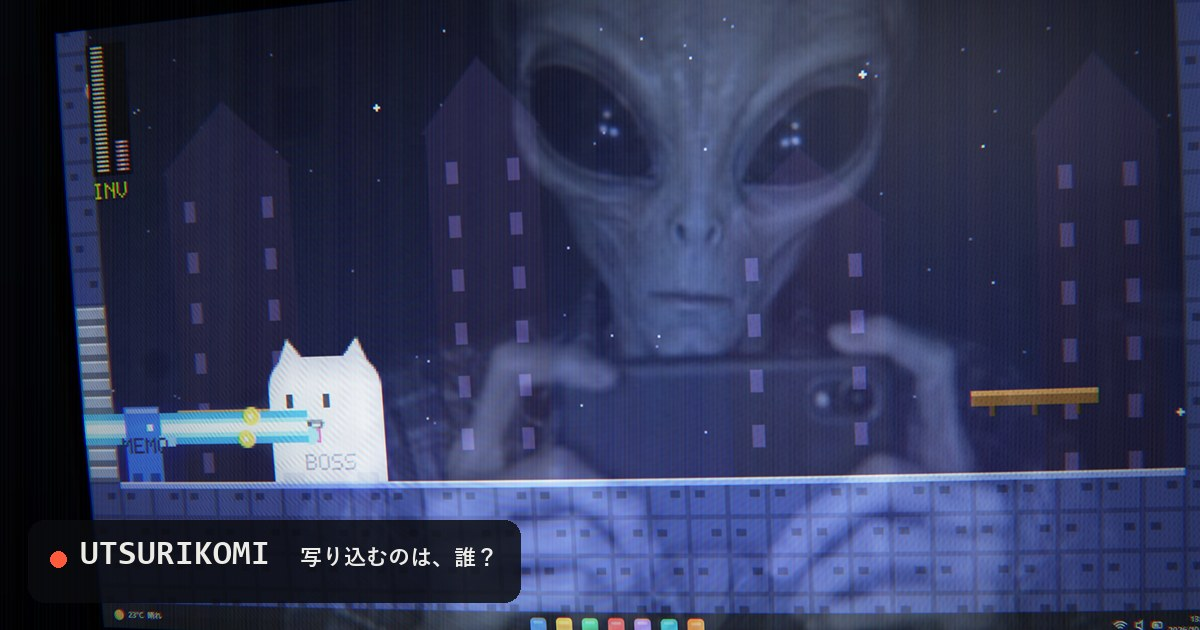
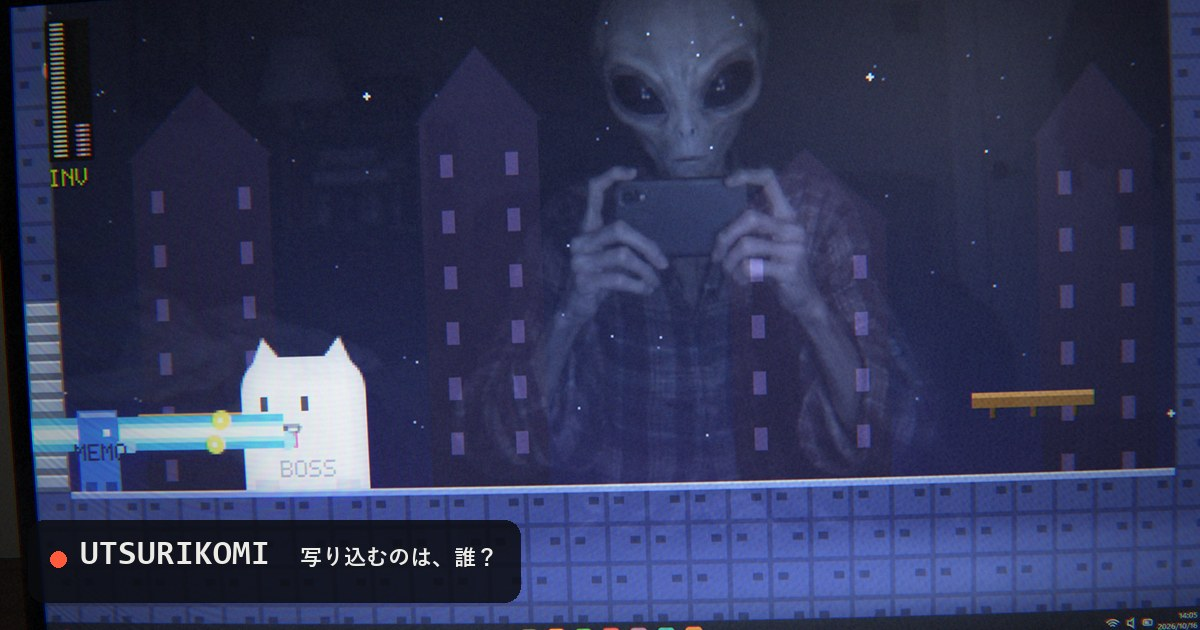
OGP 画像を今の見た目で撮り直し、README の仕組みを更新

diff --git a/README.md b/README.md
@@ -29,8 +29,10 @@ WebGL2 の2パスで描いています。
 
 1. 入力画像を PC 画面として描き、カメラの位置から射影（ホモグラフィ）して斜めから撮った形にする
 2. 画面の RGB 画素の格子をカメラの画素で標本化して、モアレを自然に出す
-3. 「カメラから画面へ下ろした垂線の足」＝鏡に自分が写る点を基準に、写り込みを足す
-4. スマホカメラの癖（色ずれ・やりすぎシャープ・暗部のノイズ・周辺減光）を後処理で足す
+3. 画面を平らな鏡として、カメラからの線を跳ね返し、撮影者の後ろの「人と部屋の絵」に当てて写り込みを足す
+   （斜めから撮ると写り込みが流れ、大きく振ると画面の外へ外れる）
+4. 画面のまわりは光線を壁・机・キーボード面に当てて描き、画面の光が手前に当たる
+5. スマホカメラの癖（色ずれ・やりすぎシャープ・暗部のノイズ・周辺減光）を後処理で足す
 
 ビルド不要の静的ファイルです。ローカルで動かす時は任意の静的サーバーで開いてください。
 
